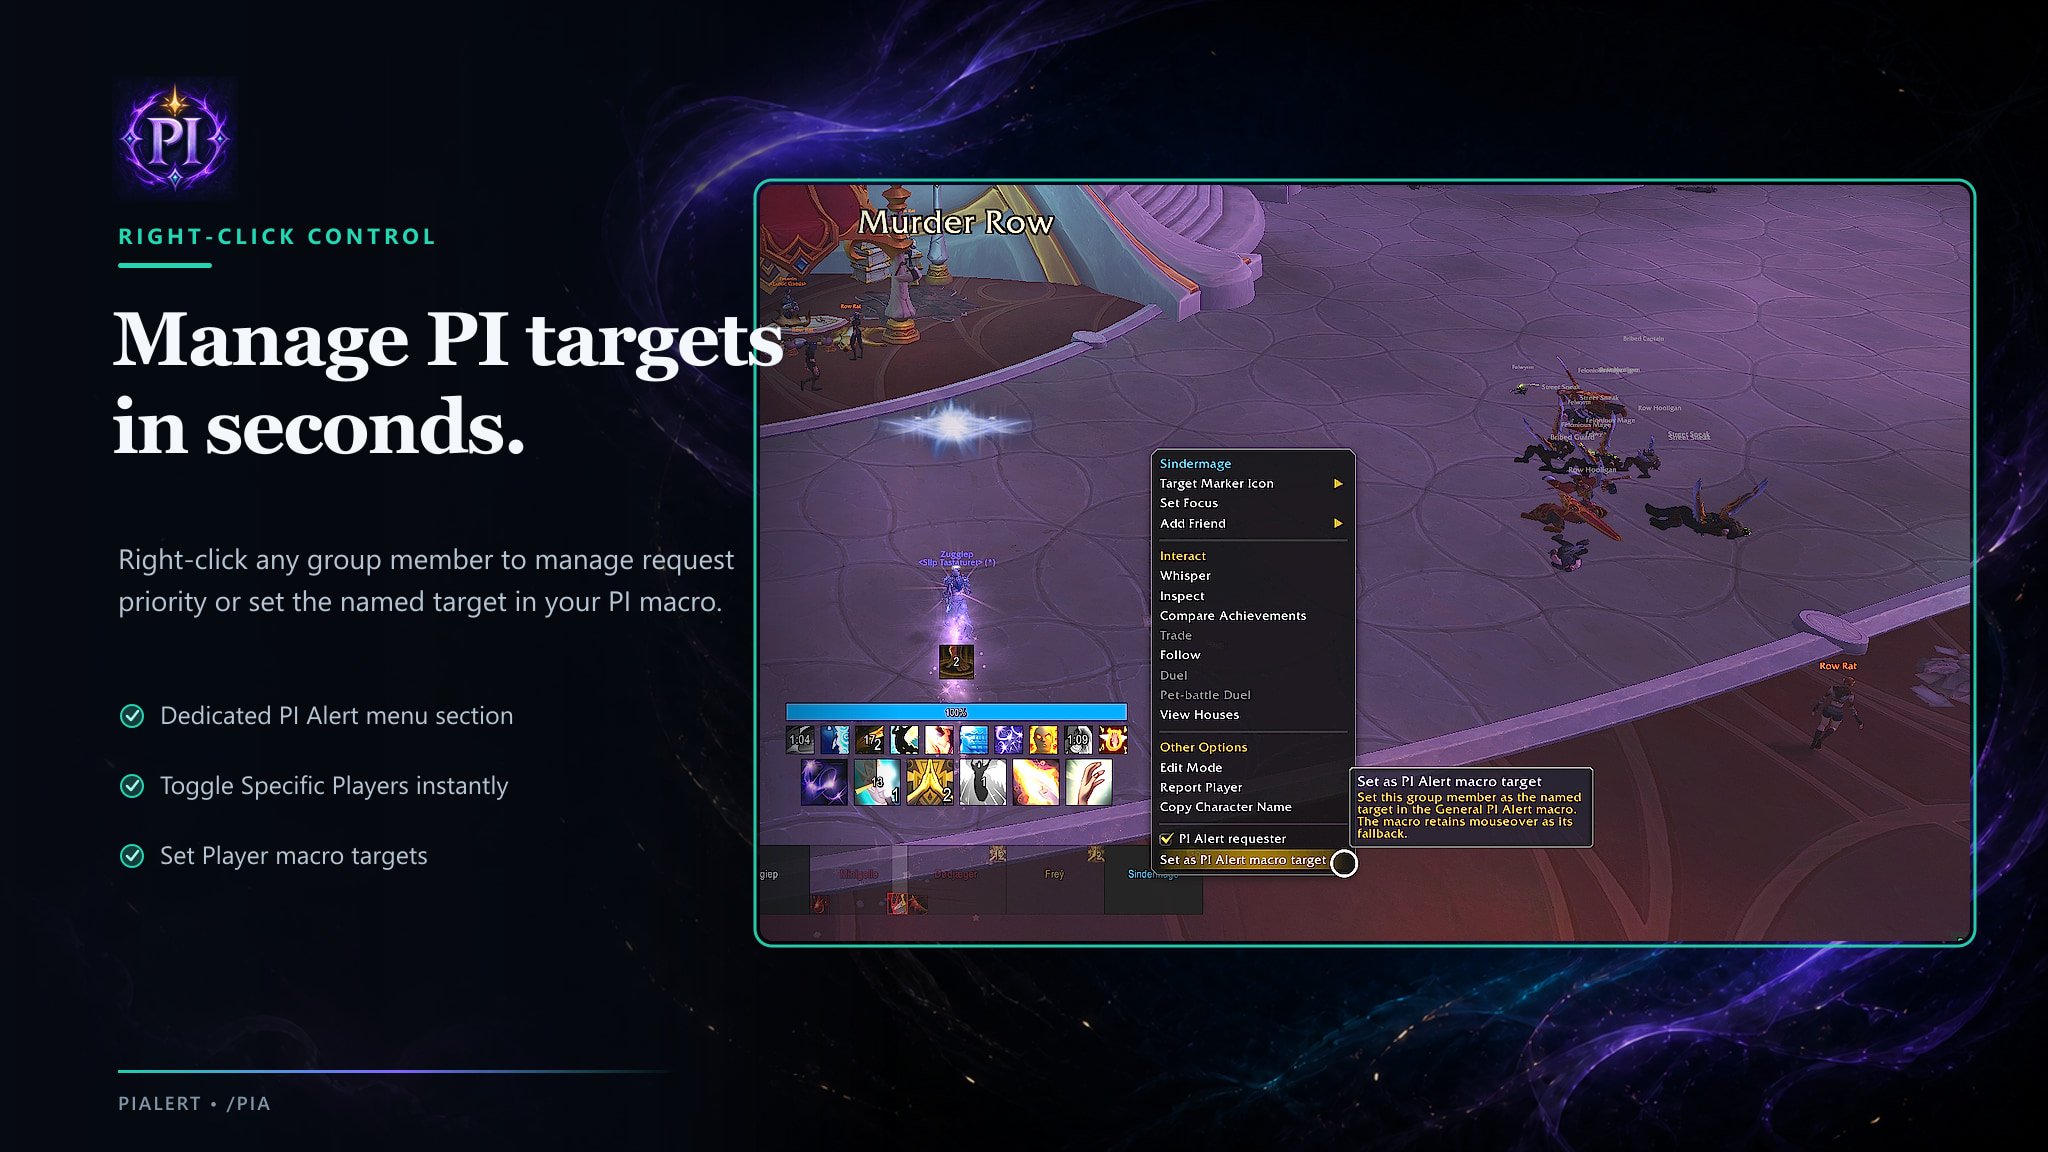
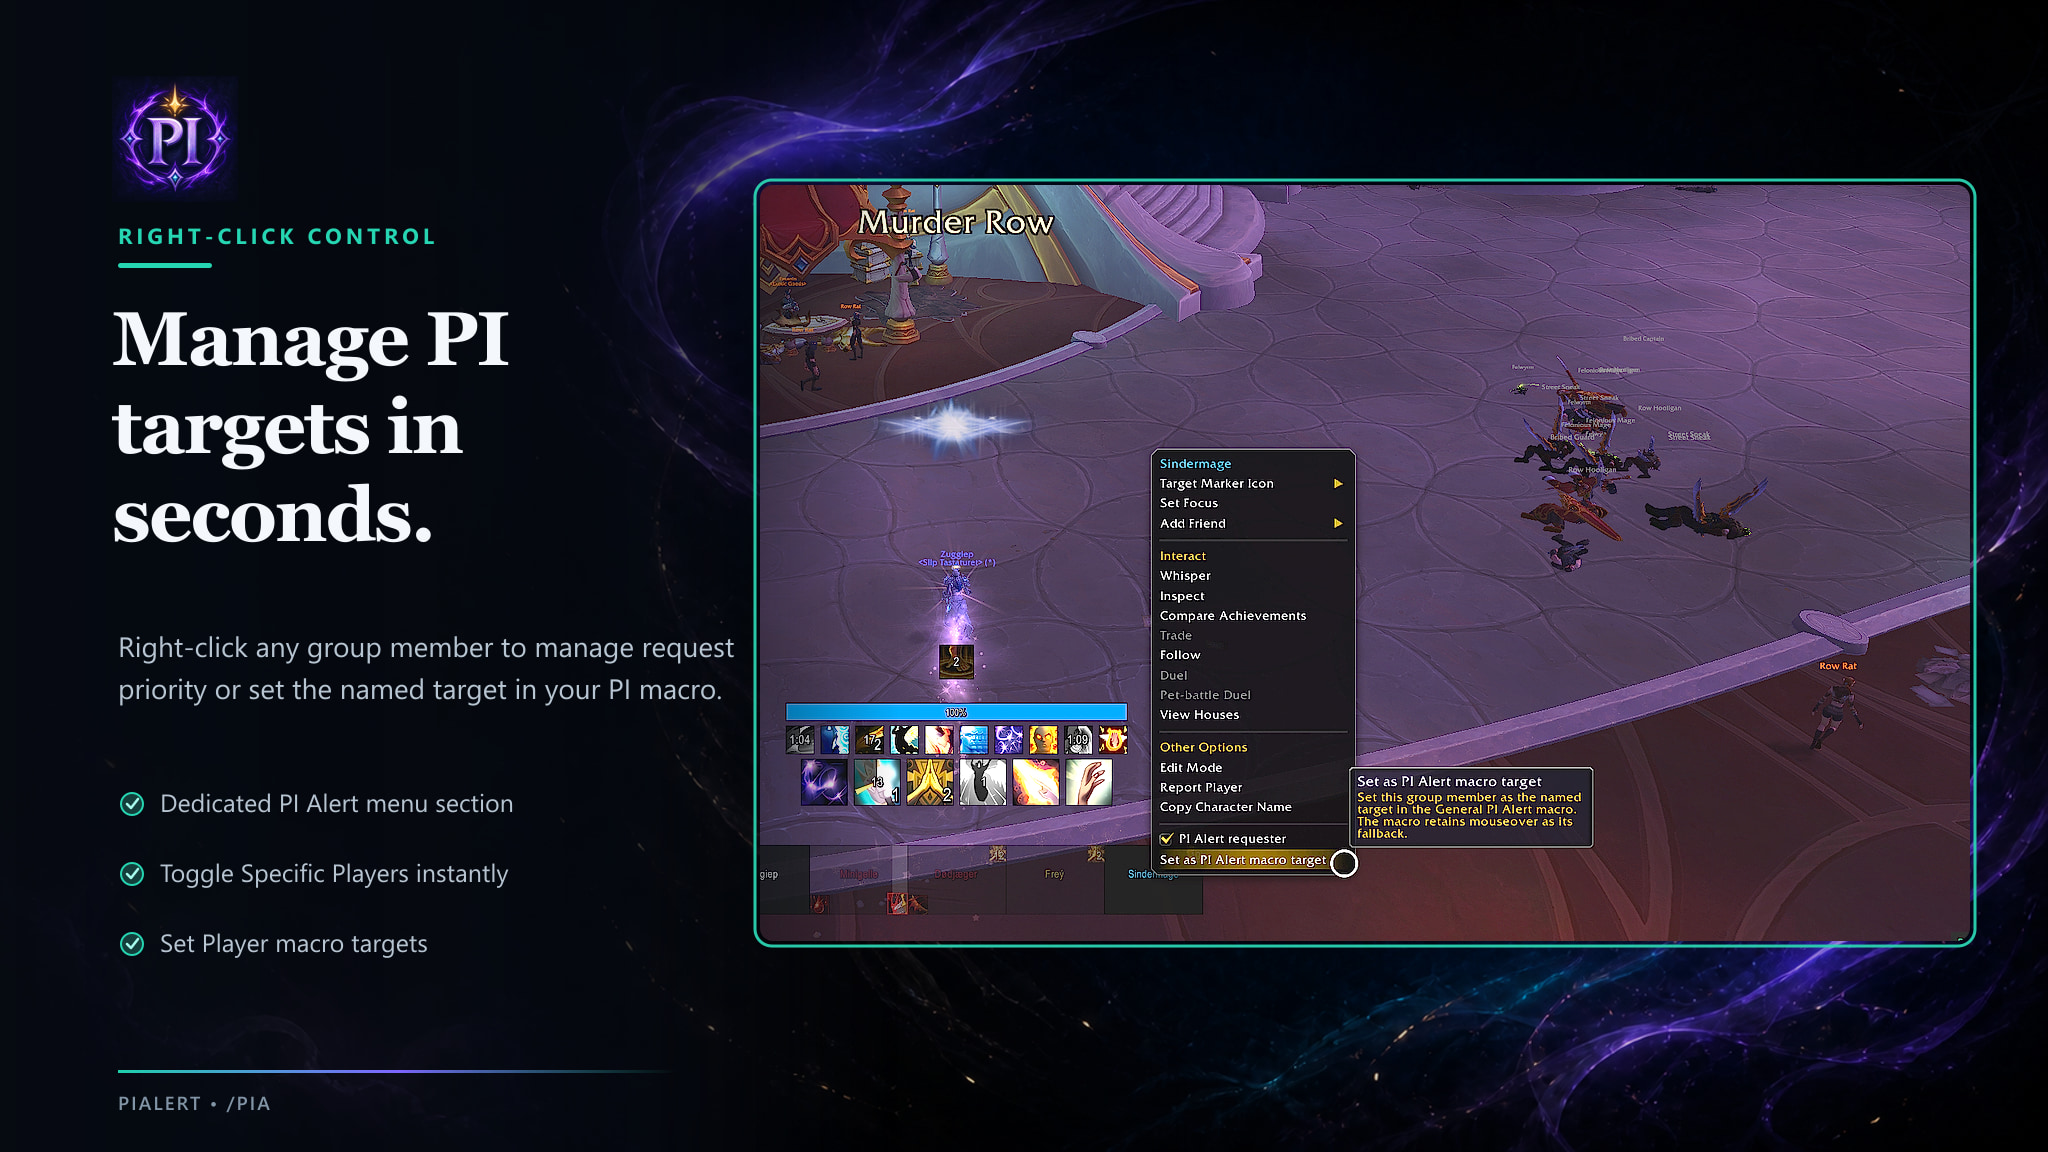
Fix right-click gallery headline spacing
Split the image 05 headline into a balanced three-line lockup so the copy remains fully inside the text column without overlapping the screenshot or reducing the established typography size.

diff --git a/Branding/CurseForge/build-gallery.js b/Branding/CurseForge/build-gallery.js
@@ -80,7 +80,7 @@ const slides = [
     crop: { left: 2300, top: 200, width: 1600, height: 1000 },
     shot: { x: 760, y: 185, width: 1210, height: 756 },
     eyebrow: "RIGHT-CLICK CONTROL",
-    title: ["Manage PI targets", "in seconds."],
+    title: ["Manage PI", "targets in", "seconds."],
     body: [
       "Right-click any group member to manage request",
       "priority or set the named target in your PI macro.",
